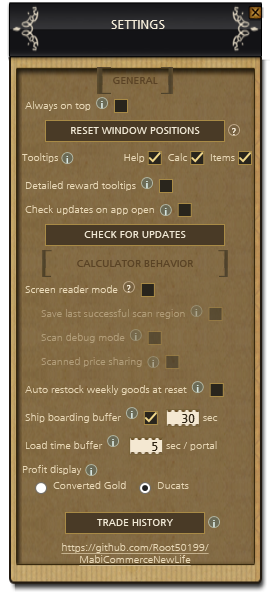
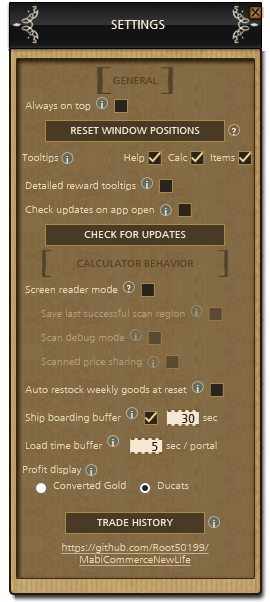
chore: release 0.2.1-beta (#24)

diff --git a/src/Views/SharingConsentWindow.xaml b/src/Views/SharingConsentWindow.xaml
@@ -1,0 +1,37 @@
+<Window x:Class="MabiCommerceNewLife.SharingConsentWindow"
+        xmlns="http://schemas.microsoft.com/winfx/2006/xaml/presentation"
+        xmlns:x="http://schemas.microsoft.com/winfx/2006/xaml"
+        Title="Scanned price sharing" Width="454" Height="310"
+        WindowStyle="None" ResizeMode="NoResize" AllowsTransparency="True"
+        Background="Transparent" ShowInTaskbar="False" WindowStartupLocation="CenterOwner">
+    <Grid>
+        <Image x:Name="BackgroundArt" Stretch="Fill" IsHitTestVisible="False" />
+        <Grid Margin="28,4,28,26">
+            <Grid.RowDefinitions>
+                <RowDefinition Height="40" />
+                <RowDefinition Height="24" />
+                <RowDefinition Height="126" />
+                <RowDefinition Height="Auto" />
+                <RowDefinition Height="*" />
+            </Grid.RowDefinitions>
+            <Border Background="Transparent" MouseLeftButtonDown="Header_MouseLeftButtonDown">
+                <TextBlock Text="SCANNED PRICE SHARING" Foreground="#F4ECD9" FontSize="14" FontWeight="Bold"
+                           TextAlignment="Center" VerticalAlignment="Center" />
+            </Border>
+            <TextBlock x:Name="ConsentSummary" Grid.Row="2" Foreground="#E9D9B8" FontSize="13" TextWrapping="Wrap"
+                       Text="Send verified scans and receive community prices. Review edits are marked manual.&#10;&#10;No account data, screenshots or raw OCR. IP logs and new scan links expire after 30 days; price history stays.&#10;&#10;Your choice is saved. Turn sharing off anytime." />
+            <Expander x:Name="PrivacyDetails" Grid.Row="3" Header="Privacy and details" Foreground="#E9D9B8" FontSize="12"
+                      Expanded="PrivacyDetails_Changed" Collapsed="PrivacyDetails_Changed">
+                <ScrollViewer MaxHeight="76" VerticalScrollBarVisibility="Auto">
+                    <TextBlock x:Name="PrivacyDetailsText" TextWrapping="Wrap" Margin="4" />
+                </ScrollViewer>
+            </Expander>
+            <StackPanel Grid.Row="4" Orientation="Horizontal" HorizontalAlignment="Center" VerticalAlignment="Center">
+                <Button x:Name="AcceptSharingButton" Content="Enable" Width="110" Height="30" Margin="0,0,12,0"
+                        Style="{DynamicResource CommerceActionButton}" Click="Enable_Click" />
+                <Button x:Name="DeclineSharingButton" Content="Cancel" Width="110" Height="30" IsDefault="True" IsCancel="True"
+                        Style="{DynamicResource CommerceActionButton}" Click="Cancel_Click" />
+            </StackPanel>
+        </Grid>
+    </Grid>
+</Window>

diff --git a/src/Views/MainWindow.xaml b/src/Views/MainWindow.xaml
@@ -541,8 +541,8 @@
                 <Image x:Name="ManualButtonImage" Width="22" Height="22" Stretch="Uniform" RenderOptions.BitmapScalingMode="HighQuality"/>
             </Button>
             <Popup x:Name="SettingsPopup" Placement="Bottom" HorizontalOffset="-246" VerticalOffset="2" StaysOpen="True" AllowsTransparency="True" PopupAnimation="Fade">
-                <Canvas x:Name="SettingsMenuCanvas" Width="270" Height="592" ClipToBounds="True">
-                    <Image Canvas.Left="0" Canvas.Top="0" Source="{DynamicResource SettingsMenuBackgroundArt}" Width="270" Height="592" Stretch="Fill" />
+                <Canvas x:Name="SettingsMenuCanvas" Width="270" Height="602" ClipToBounds="True">
+                    <Image Canvas.Left="0" Canvas.Top="0" Source="{DynamicResource SettingsMenuBackgroundArt}" Width="270" Height="602" Stretch="Fill" />
                     <Grid Canvas.Left="12" Canvas.Top="4" Width="252" Height="40">
                         <Grid.ColumnDefinitions><ColumnDefinition Width="*"/><ColumnDefinition Width="18"/></Grid.ColumnDefinitions>
                         <Thumb Grid.ColumnSpan="2" Background="Transparent" DragDelta="SettingsPopup_DragDelta">

diff --git a/src/Views/SharingConsentWindow.xaml.cs b/src/Views/SharingConsentWindow.xaml.cs
@@ -1,0 +1,35 @@
+using System.Windows;
+using System.Windows.Input;
+
+namespace MabiCommerceNewLife;
+
+public partial class SharingConsentWindow : Window
+{
+    public SharingConsentWindow(MainWindow owner)
+    {
+        InitializeComponent();
+        Owner = owner;
+        FontFamily = owner.FontFamily;
+        Resources["CommerceActionButton"] = owner.FindResource("CommerceActionButton");
+        Resources["PurchaseButtonArt"] = owner.FindResource("PurchaseButtonArt");
+        BackgroundArt.Source = MainWindow.BuildSettingsMenuBackground(10, 4);
+        PrivacyDetailsText.Text =
+            $"Service: {CommunityClient.DefaultEndpoint} (Cloudflare).\n\n" +
+            "Automatically checked scans and complete reviews upload; edited values are marked manual. " +
+            "Refresh receives and applies prices (one-minute cooldown). No background polling or offline upload queue.\n\n" +
+            "Connection IP logs and new observations' random installation links expire after 30 days, " +
+            "with deletion at the next successful cleanup. Pre-policy links are exempt. " +
+            "Unused expired credentials are deleted. Price/stock history remains indefinitely; " +
+            "turning sharing off does not erase it. Cloudflare platform retention/backups are separate.\n\n" +
+            "No character/account data, screenshots, raw OCR or personal weekly allowance is sent. " +
+            "Credentials stay in memory. This choice is saved for this service/policy and reconnects on launch. " +
+            "Turning sharing off stops transfers and keeps the newest applied values locally.";
+        Loaded += (_, _) => DeclineSharingButton.Focus();
+    }
+
+    private void Enable_Click(object sender, RoutedEventArgs e) => DialogResult = true;
+    private void Cancel_Click(object sender, RoutedEventArgs e) => DialogResult = false;
+    private void PrivacyDetails_Changed(object sender, RoutedEventArgs e) =>
+        Height = PrivacyDetails.IsExpanded ? 390 : 310;
+    private void Header_MouseLeftButtonDown(object sender, MouseButtonEventArgs e) => DragMove();
+}

diff --git a/CalculatorTests/UserGuideTests.cs b/CalculatorTests/UserGuideTests.cs
@@ -8,6 +8,26 @@ namespace CalculatorTests;
 public sealed class UserGuideTests
 {
     [TestMethod]
+    public void SharingConsentIsThemedConciseAndDefaultsToCancel()
+    {
+        XNamespace x = "http://schemas.microsoft.com/winfx/2006/xaml";
+        var document = XDocument.Load(Path.Combine(AppContext.BaseDirectory, "GuideTargets", "SharingConsentWindow.xaml"));
+        XElement Named(string name) => document.Descendants().Single(element => (string?)element.Attribute(x + "Name") == name);
+        Assert.AreEqual("None", (string?)document.Root!.Attribute("WindowStyle"));
+        var summary = Named("ConsentSummary").Attribute("Text")!.Value;
+        Assert.IsTrue(summary.Length < 350);
+        StringAssert.Contains(summary, "30 days");
+        StringAssert.Contains(summary, "price history stays");
+        StringAssert.Contains(summary, "screenshots");
+        Assert.IsNull(Named("PrivacyDetails").Attribute("IsExpanded"));
+        Assert.AreEqual("#E9D9B8", (string?)Named("ConsentSummary").Attribute("Foreground"));
+        Assert.AreEqual("#E9D9B8", (string?)Named("PrivacyDetails").Attribute("Foreground"));
+        Assert.AreEqual("True", (string?)Named("DeclineSharingButton").Attribute("IsDefault"));
+        Assert.AreEqual("True", (string?)Named("DeclineSharingButton").Attribute("IsCancel"));
+        Assert.AreEqual("{DynamicResource CommerceActionButton}", (string?)Named("AcceptSharingButton").Attribute("Style"));
+    }
+
+    [TestMethod]
     public void AppIdentityAndFullRepositoryLinkAreVisible()
     {
         XNamespace x = "http://schemas.microsoft.com/winfx/2006/xaml";
@@ -24,6 +44,7 @@ public sealed class UserGuideTests
         Assert.AreEqual(link.Value, (string?)link.Attribute("NavigateUri"));
         Assert.AreEqual("RepositoryLink_RequestNavigate", (string?)link.Attribute("RequestNavigate"));
         Assert.IsTrue(link.Ancestors().Contains(Named("SettingsMenuCanvas")));
+        Assert.AreEqual("602", (string?)Named("SettingsMenuCanvas").Attribute("Height"));
     }
 
     [TestMethod]

diff --git a/src/Views/MainWindow.Community.cs b/src/Views/MainWindow.Community.cs
@@ -103,19 +103,7 @@ public partial class MainWindow
             SetStatus("Enable Screen reader mode before enabling scanned price sharing.", true);
             return;
         }
-        if (MessageBox.Show(this,
-            "Enable sending and receiving scanned commerce price and Inventory supply data?\n\n" +
-            "No character or account data is transmitted or recorded. No screenshots or raw OCR are sent.\n\n" +
-            "IP logs are retained for 30 days. New observations lose their random installation links after 30 days. Unused expired installation credentials are deleted. Price/stock history remains indefinitely.\n\n" +
-            "Turning sharing off stops transfers and keeps the newest applied values saved locally; it does not erase stored history.\n\n" +
-            "Use the refresh button on the town list to retrieve remote prices (1 minute cooldown).\n\n" +
-            "Fresh automatically validated scans and complete scans you confirm in OCR review are uploaded. Edited source, stock and price lines are flagged manual; unchanged lines are reviewed OCR. Reviewed prices can update other users' planners. No background polling or offline upload queue.\n\n" +
-            $"Current backend: {CommunityClient.DefaultEndpoint}\n" +
-            (CommunityClient.DefaultEndpoint == CommunityClient.ProductionEndpoint
-                ? "This is the online community service hosted by Cloudflare; your connection IP is recorded privately under the retention policy above.\n\n"
-                : "This is the local development service; no observations are sent to the online community service.\n\n") +
-            "Credentials stay in memory. This choice is saved for this backend and sharing reconnects on later launches until you turn it off.",
-            "Scanned price sharing", MessageBoxButton.YesNo, MessageBoxImage.Question) != MessageBoxResult.Yes)
+        if (new SharingConsentWindow(this).ShowDialog() != true)
         {
             CommunitySharingCheckBox.IsChecked = false;
             return;

diff --git a/src/Views/MainWindow.xaml.cs b/src/Views/MainWindow.xaml.cs
@@ -148,7 +148,7 @@ public partial class MainWindow : Window
         TradingPostFrameImage.Source = LoadImage("Data/CommerceUI/TradingPostFrameCustom.png");
         SettingsButtonImage.Source = LoadImage("Data/CommerceUI/Settings.png");
         ManualButtonImage.Source = LoadImage("Data/CommerceUI/BookIcon.png");
-        Resources["SettingsMenuBackgroundArt"] = BuildSettingsMenuBackground(13);
+        Resources["SettingsMenuBackgroundArt"] = BuildSettingsMenuBackground(16);
         Resources["BracketTopLeftArt"] = LoadImage("Data/CommerceUI/BracketTopLeft.png");
         Resources["BracketTopRightArt"] = LoadImage("Data/CommerceUI/BracketTopRight.png");
         Resources["BracketBottomLeftArt"] = LoadImage("Data/CommerceUI/BracketBottomLeft.png");

diff --git a/README.md b/README.md
@@ -141,6 +141,16 @@ For DNS errors check internet/DNS; for TLS errors check Windows date/time,
 trusted certificates and HTTPS-inspecting antivirus/proxies. Managed networks
 may require administrator help. The app does not inspect or modify firewall rules.
 
+### Sharing consent
+
+Enabling scanned price sharing opens an app-themed **Enable / Cancel** dialog
+with the same light text color as Settings.
+A short summary covers transfers, excluded personal/image data, 30-day IP/new
+scan-link retention and retained price history. **Privacy and details** expands
+the service address, legacy-link exemption, cleanup timing and full behavior.
+Cancel is focused/default; Escape or closing declines. No connection starts
+until Enable is chosen. Existing saved consent and OFF behavior are unchanged.
+
 ## Community scan test
 
 Launch the user build from this checkout:
@@ -340,7 +350,7 @@ than guessing; use `-Version` for a deliberate override. Uncommitted changes
 cannot be classified: commit them first or prepare a version explicitly.
 
 An already prepared project version newer than the last release is reused, not
-bumped again (current prepared version: `0.2.0-beta`). Ordinary builds never
+bumped again. Ordinary builds never
 change version numbers. `tools\Publish-Release.ps1 -Version 1.0.0` explicitly
 graduates out of beta. The release script shows the chosen version and asks
 before committing/pushing, merging through a PR and tagging. It is not run
